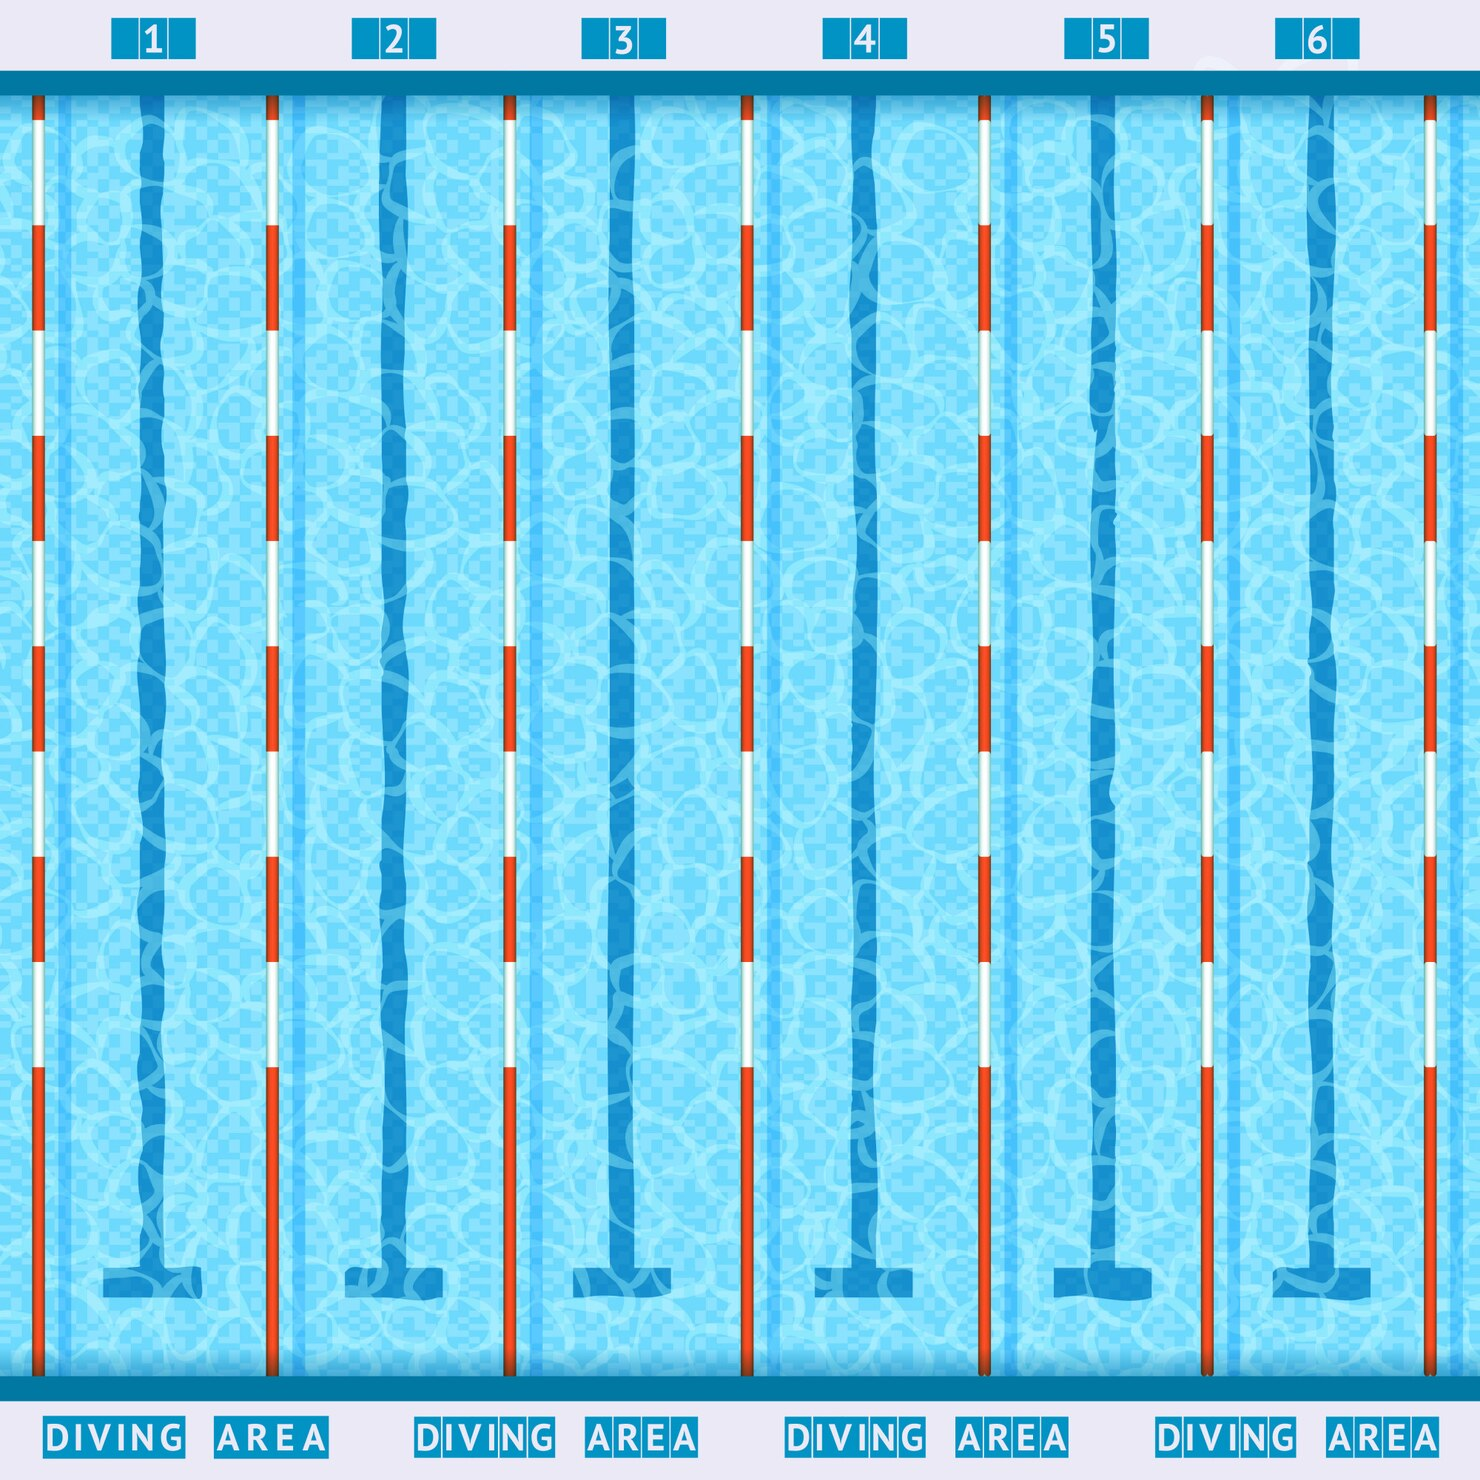
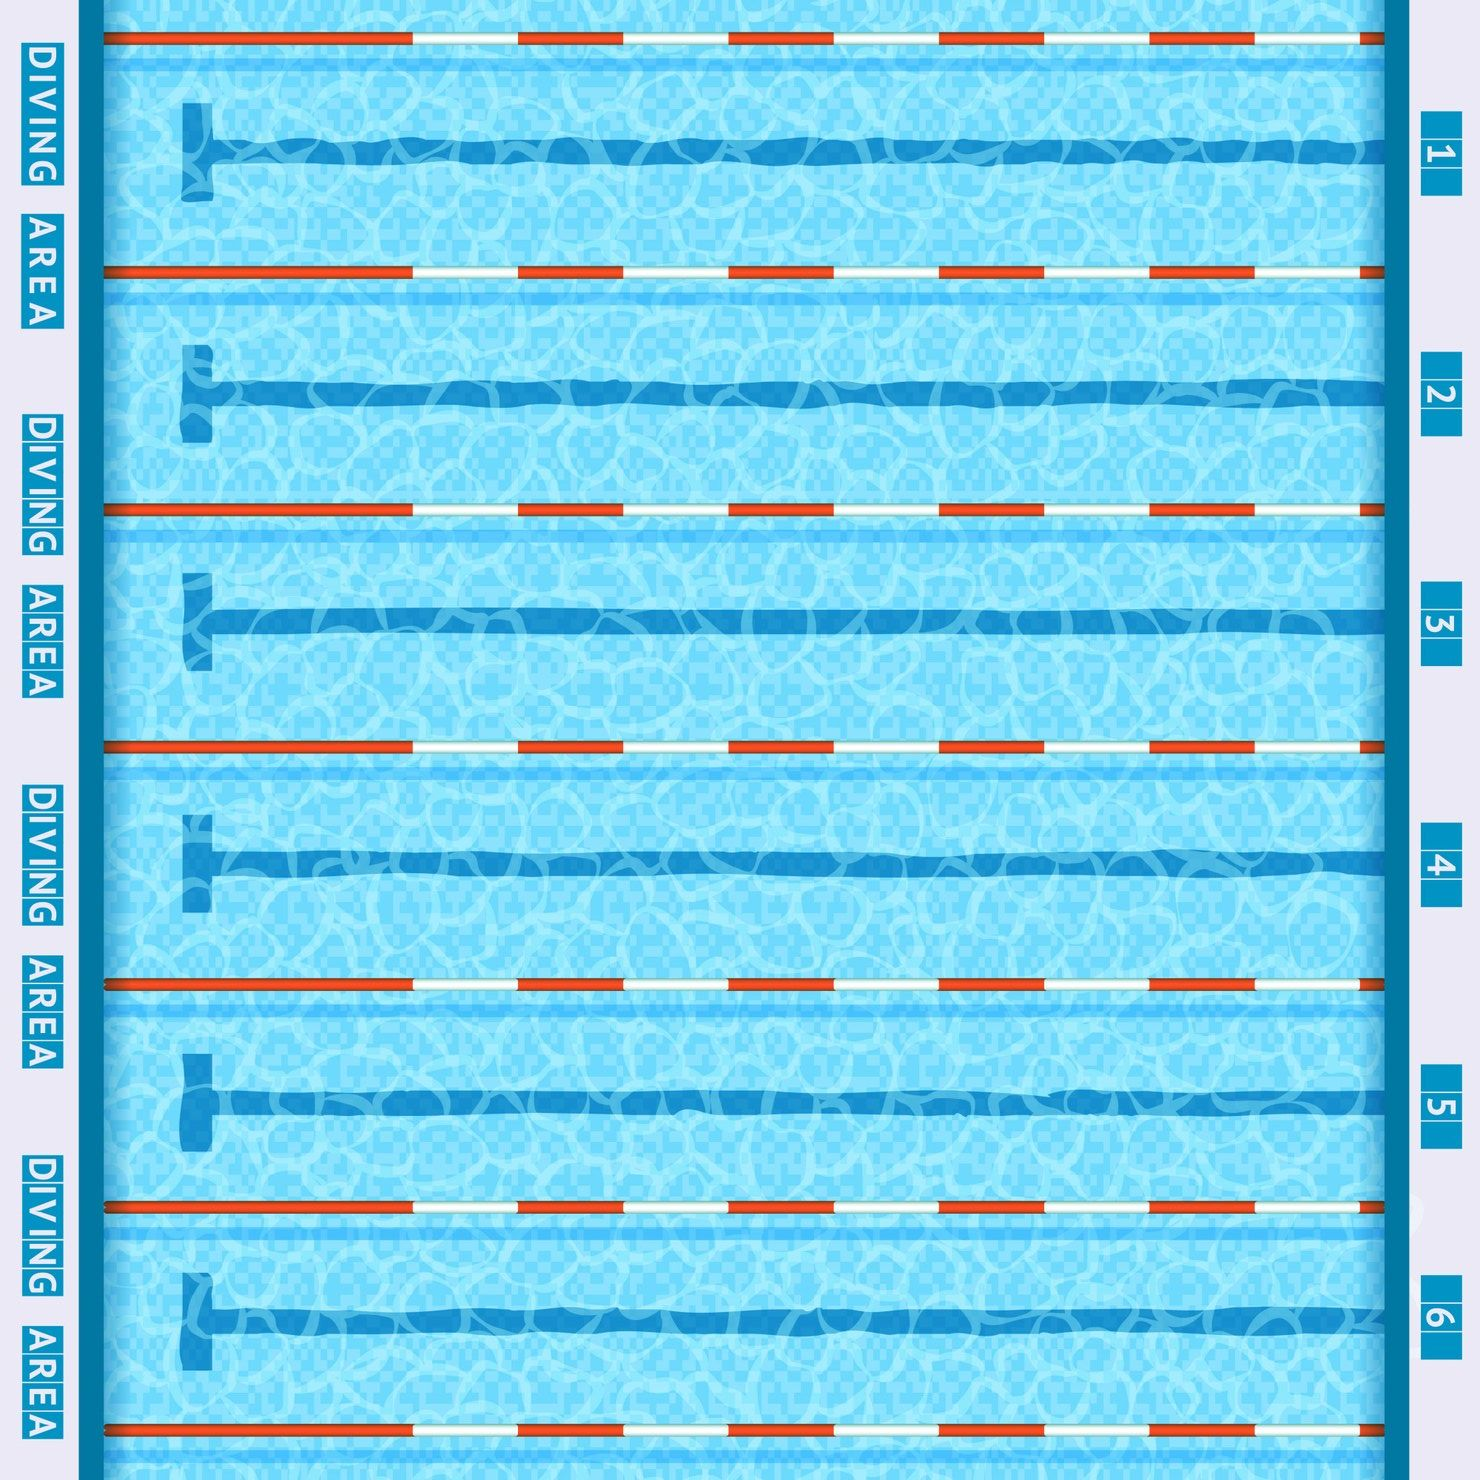
Rotate image file and remove CSS transform
Instead of using CSS transform rotation which causes viewport filling issues,
rotate the image file itself and use it as-is. This eliminates white borders
without any CSS complexity.

Claude-Session: https://claude.ai/code/session_01J2g3fcCNuSUcCCeYaWCVrL

diff --git a/docs/index.html b/docs/index.html
@@ -49,8 +49,6 @@
     background-image:url('pool-bg.jpg');
     background-size:cover;
     background-position:center;
-    transform:rotate(90deg);
-    transform-origin:center;
   }
   #gate::after{
     content:''; position:absolute; inset:0; z-index:1;
